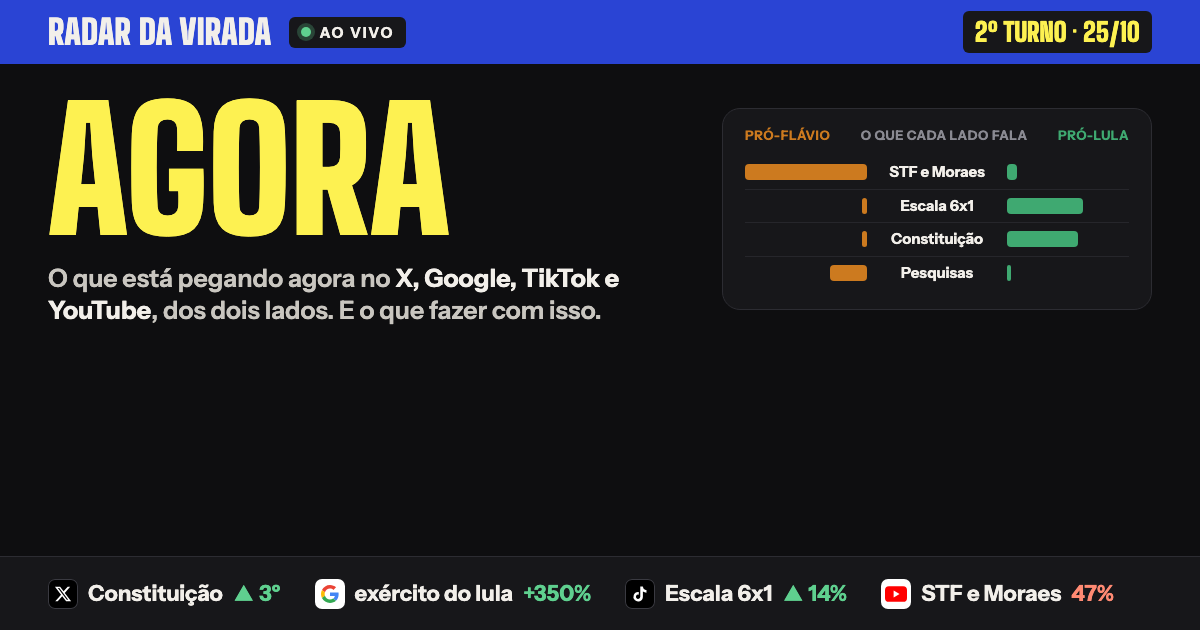
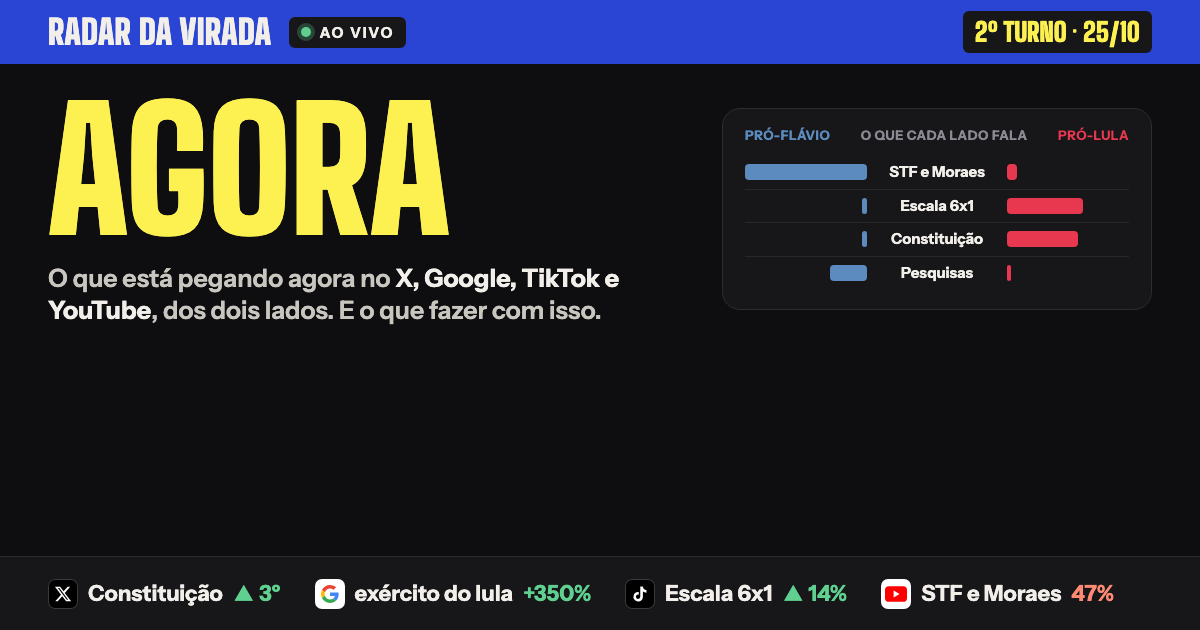
Espelho atualizado 2026-10-10T15:43Z

diff --git a/narrativas.html b/narrativas.html
@@ -9,7 +9,7 @@
 <meta property="og:type" content="website">
 <meta property="og:title" content="Agora · Radar da Virada">
 <meta property="og:description" content="O que está pegando agora no X, Google, TikTok e YouTube, dos dois lados, e o que fazer com isso. Ao vivo até o 2º turno.">
-<meta property="og:image" content="https://radardavirada.pages.dev/og-monitor.png?v=4"><meta property="og:image:alt" content="Painel com o título Agora, barras do que cada lado fala e uma fita de cotações com X, Google, TikTok e YouTube">
+<meta property="og:image" content="https://radardavirada.pages.dev/og-monitor.png?v=5"><meta property="og:image:alt" content="Painel com o título Agora, barras do que cada lado fala e uma fita de cotações com X, Google, TikTok e YouTube">
 <meta property="og:image:width" content="1200"><meta property="og:image:height" content="630">
 <meta property="og:url" content="https://radardavirada.pages.dev/narrativas">
 <meta name="twitter:card" content="summary_large_image">
@@ -24,9 +24,10 @@
 :root {
   --azul: #1800D8; --azul-esc: #10009C; --amarelo: #FFF14A; --tinta: #17171A; --tx-2: #5C5C64; --tx-3: #8A8A92;
   --fundo: #F5F4F1; --card: #FFFFFF; --card-2: #F3F2EE; --linha: #E7E5E0; --linha-2: #D3D0C9;
-  --nossa: #2E8F5B; --nossa-esc: #1F6B43; --nossa-cl: #E6F2EA; --deles: #B8660F; --deles-esc: #8A4A08; --deles-cl: #FBEFE2;
+  /* lados (10/10/2026): Lula em vermelho e Flávio em azul acinzentado, as cores das campanhas, longe do azul forte da marca */
+  --nossa: #C8102E; --nossa-esc: #9A0C23; --nossa-cl: #FBE8EB; --deles: #3B6E9E; --deles-esc: #2A5079; --deles-cl: #E6EEF6;
   --disputa: #5C5C64; --disputa-cl: #ECEBE7; --alerta: #C1121F; --alerta-cl: #FDE8E8; --coral: #FF8C78;
-  --verde: var(--nossa); --verde-esc: var(--nossa-esc); --verde-cl: var(--nossa-cl);
+  --verde: #2E8F5B; --verde-esc: #1F6B43; --verde-cl: #E6F2EA;  /* verde da seção de vídeos e do WhatsApp, separado da cor de lado */
   --f-display: "Big Shoulders Display", Impact, sans-serif; --f-corpo: "Instrument Sans", system-ui, sans-serif;
   --f-mono: "Geist Mono", ui-monospace, SFMono-Regular, Menlo, monospace;
 }
@@ -284,7 +285,7 @@ section[id], #videos { scroll-margin-top: 92px; }  /* altura do topo fixo */
 .lin span { white-space: nowrap; overflow: hidden; text-overflow: ellipsis; font-weight: 600; }
 .lin b { font-variant-numeric: tabular-nums; font-weight: 700; }
 .lin em { font-style: normal; font: 800 12px/1 var(--f-corpo); font-variant-numeric: tabular-nums; min-width: 46px; text-align: right; }
-.lin em.up { color: var(--nossa); } .lin em.dn { color: var(--alerta); } .lin em.nv { color: var(--deles); } .lin em.eq { color: var(--tx-3); }
+.lin em.up { color: var(--verde-esc); } .lin em.dn { color: #8A8A92; } .lin em.nv { color: #8A5A00; } .lin em.eq { color: var(--tx-3); }  /* sobe/cai/novo sem cor de lado */
 .duas { display: grid; grid-template-columns: 1fr 1fr; gap: 12px; }
 .duas h5 { margin: 0 0 2px; font: 800 10px/1 var(--f-corpo); text-transform: uppercase; letter-spacing: .07em; }
 .duas .lin { grid-template-columns: minmax(0, 1fr) auto; font-size: 13px; }
@@ -346,10 +347,8 @@ a.dp-t:hover { text-decoration: underline; }
 .tom-ver { display: inline-block; margin-top: 6px; padding: 4px 9px; border-radius: 6px; font: 800 12px/1.2 var(--f-corpo); }
 .tom-ver.ruim { background: #FF4D4D; color: #FFF; } .tom-ver.bom { background: #2EE07A; color: #0B2A17; } .tom-ver.eq { background: rgb(255 255 255 / .18); color: #FFF; }
 .tom-ver + .tom-leg { margin-top: 4px; }
-/* vermelho em quem leva mais pancada; o outro lado fica neutro (Lula na frente mantém o verde) */
-.visor-escuro .tom.perde-l .tom-num b:first-child::before, .visor-escuro .tom.perde-l .tom-barra i:first-child,
-.visor-escuro .tom.perde-f .tom-num b:last-child::after, .visor-escuro .tom.perde-f .tom-barra i:last-child { background: #FF4D4D !important; }
-.visor-escuro .tom.perde-l .tom-num b:last-child::after, .visor-escuro .tom.perde-l .tom-barra i:last-child { background: #CFCBE8 !important; }
+/* a barra do medidor usa a cor de cada lado; quem leva pancada aparece no selo do veredito (antes era um vermelho de alerta,
+   que com Lula em vermelho virou ambíguo) */
 .pn-lex { margin-top: 10px; padding: 10px 14px; }
 .pn-lex h4 { margin-bottom: 6px; }
 .lx-linha { display: flex; gap: 18px; align-items: flex-start; }
@@ -534,7 +533,7 @@ details.cuidado[open] .cuid-n { background: var(--alerta); color: #FFF; }
 .args p { margin: 2px 0 0; font-size: 16px; font-weight: 600; line-height: 1.4; }
 .args a { font-size: 13px; color: var(--tx-3); text-decoration: none; } .args a:hover { text-decoration: underline; color: var(--tinta); }
 .bt { display: inline-flex; align-items: center; justify-content: center; gap: 6px; font: 700 15px/1 var(--f-corpo); text-decoration: none; padding: 13px 18px; border-radius: 999px; border: 0; cursor: pointer; }
-.bt.zap { background: var(--nossa); color: #FFF; } .bt.s { background: var(--card); box-shadow: inset 0 0 0 1.5px var(--linha-2); }
+.bt.zap { background: var(--verde); color: #FFF; }  /* botão de WhatsApp fica verde, não na cor de lado */ .bt.s { background: var(--card); box-shadow: inset 0 0 0 1.5px var(--linha-2); }
 .bts { display: flex; gap: 8px; flex-wrap: wrap; }
 
 .metodo { font-size: 13px; color: var(--tx-3); margin: 26px 0 0; line-height: 1.55; max-width: 860px; }
@@ -652,7 +651,7 @@ details.cuidado[open] .cuid-n { background: var(--alerta); color: #FFF; }
 .eco-mapa .t-fr2 { font: 700 14px var(--f-corpo); fill: var(--azul); }
 .eco-mapa .no { cursor: pointer; outline: none; }
 .eco-mapa .no .anel { fill: var(--linha); transition: r .15s; }
-.eco-mapa .no.on .anel { fill: var(--nossa); } .eco-mapa .no.morno .anel { fill: #9CCFB1; }
+.eco-mapa .no.on .anel { fill: var(--nossa); } .eco-mapa .no.morno .anel { fill: #EFA3AE; }
 .eco-mapa .no.parado image { filter: grayscale(1); opacity: .65; }
 .eco-mapa .no:hover .anel, .eco-mapa .no:focus .anel, .eco-mapa .no.sel .anel { fill: var(--amarelo); }
 .eco-mapa .no.sel .anel { stroke: var(--tinta); stroke-width: 2; }
@@ -783,7 +782,7 @@ footer { margin-top: 36px; }
   <p class="nota-met" id="como"><b>Limites.</b> Mede atenção em perfis públicos, lidos sem login; intenção de voto é das pesquisas registradas. Fontes: trends24.in (X), Google Trends, Google Notícias, YouTube, TikTok e Kwai.</p>
   <section id="rede-sec">
     <div class="secao-h"><h2>Conecte-se com a mídia independente progressista</h2><div class="leg" id="leg-rede"></div></div>
-    <div class="eco-leg"><span><i style="background:var(--nossa)"></i>postou nas últimas 24 h</span><span><i style="background:#9CCFB1"></i>nas últimas 72 h</span><span><i style="background:var(--linha)"></i>sem vídeo novo</span></div>
+    <div class="eco-leg"><span><i style="background:var(--nossa)"></i>postou nas últimas 24 h</span><span><i style="background:#EFA3AE"></i>nas últimas 72 h</span><span><i style="background:var(--linha)"></i>sem vídeo novo</span></div>
     <div class="eco-mapa" id="eco"></div>
     <details class="eco-lista"><summary>Ver todos os canais em lista</summary><div id="eco-lista"></div></details>
     <div class="eco-info" id="eco-info" hidden></div>

diff --git a/index.html b/index.html
@@ -9,7 +9,7 @@
 <meta property="og:type" content="website">
 <meta property="og:title" content="Agora · Radar da Virada">
 <meta property="og:description" content="O que está pegando agora no X, Google, TikTok e YouTube, dos dois lados, e o que fazer com isso. Ao vivo até o 2º turno.">
-<meta property="og:image" content="https://radardavirada.pages.dev/og-monitor.png?v=4"><meta property="og:image:alt" content="Painel com o título Agora, barras do que cada lado fala e uma fita de cotações com X, Google, TikTok e YouTube">
+<meta property="og:image" content="https://radardavirada.pages.dev/og-monitor.png?v=5"><meta property="og:image:alt" content="Painel com o título Agora, barras do que cada lado fala e uma fita de cotações com X, Google, TikTok e YouTube">
 <meta property="og:image:width" content="1200"><meta property="og:image:height" content="630">
 <meta property="og:url" content="https://radardavirada.pages.dev/">
 <meta name="twitter:card" content="summary_large_image">
@@ -24,9 +24,10 @@
 :root {
   --azul: #1800D8; --azul-esc: #10009C; --amarelo: #FFF14A; --tinta: #17171A; --tx-2: #5C5C64; --tx-3: #8A8A92;
   --fundo: #F5F4F1; --card: #FFFFFF; --card-2: #F3F2EE; --linha: #E7E5E0; --linha-2: #D3D0C9;
-  --nossa: #2E8F5B; --nossa-esc: #1F6B43; --nossa-cl: #E6F2EA; --deles: #B8660F; --deles-esc: #8A4A08; --deles-cl: #FBEFE2;
+  /* lados (10/10/2026): Lula em vermelho e Flávio em azul acinzentado, as cores das campanhas, longe do azul forte da marca */
+  --nossa: #C8102E; --nossa-esc: #9A0C23; --nossa-cl: #FBE8EB; --deles: #3B6E9E; --deles-esc: #2A5079; --deles-cl: #E6EEF6;
   --disputa: #5C5C64; --disputa-cl: #ECEBE7; --alerta: #C1121F; --alerta-cl: #FDE8E8; --coral: #FF8C78;
-  --verde: var(--nossa); --verde-esc: var(--nossa-esc); --verde-cl: var(--nossa-cl);
+  --verde: #2E8F5B; --verde-esc: #1F6B43; --verde-cl: #E6F2EA;  /* verde da seção de vídeos e do WhatsApp, separado da cor de lado */
   --f-display: "Big Shoulders Display", Impact, sans-serif; --f-corpo: "Instrument Sans", system-ui, sans-serif;
   --f-mono: "Geist Mono", ui-monospace, SFMono-Regular, Menlo, monospace;
 }
@@ -284,7 +285,7 @@ section[id], #videos { scroll-margin-top: 92px; }  /* altura do topo fixo */
 .lin span { white-space: nowrap; overflow: hidden; text-overflow: ellipsis; font-weight: 600; }
 .lin b { font-variant-numeric: tabular-nums; font-weight: 700; }
 .lin em { font-style: normal; font: 800 12px/1 var(--f-corpo); font-variant-numeric: tabular-nums; min-width: 46px; text-align: right; }
-.lin em.up { color: var(--nossa); } .lin em.dn { color: var(--alerta); } .lin em.nv { color: var(--deles); } .lin em.eq { color: var(--tx-3); }
+.lin em.up { color: var(--verde-esc); } .lin em.dn { color: #8A8A92; } .lin em.nv { color: #8A5A00; } .lin em.eq { color: var(--tx-3); }  /* sobe/cai/novo sem cor de lado */
 .duas { display: grid; grid-template-columns: 1fr 1fr; gap: 12px; }
 .duas h5 { margin: 0 0 2px; font: 800 10px/1 var(--f-corpo); text-transform: uppercase; letter-spacing: .07em; }
 .duas .lin { grid-template-columns: minmax(0, 1fr) auto; font-size: 13px; }
@@ -346,10 +347,8 @@ a.dp-t:hover { text-decoration: underline; }
 .tom-ver { display: inline-block; margin-top: 6px; padding: 4px 9px; border-radius: 6px; font: 800 12px/1.2 var(--f-corpo); }
 .tom-ver.ruim { background: #FF4D4D; color: #FFF; } .tom-ver.bom { background: #2EE07A; color: #0B2A17; } .tom-ver.eq { background: rgb(255 255 255 / .18); color: #FFF; }
 .tom-ver + .tom-leg { margin-top: 4px; }
-/* vermelho em quem leva mais pancada; o outro lado fica neutro (Lula na frente mantém o verde) */
-.visor-escuro .tom.perde-l .tom-num b:first-child::before, .visor-escuro .tom.perde-l .tom-barra i:first-child,
-.visor-escuro .tom.perde-f .tom-num b:last-child::after, .visor-escuro .tom.perde-f .tom-barra i:last-child { background: #FF4D4D !important; }
-.visor-escuro .tom.perde-l .tom-num b:last-child::after, .visor-escuro .tom.perde-l .tom-barra i:last-child { background: #CFCBE8 !important; }
+/* a barra do medidor usa a cor de cada lado; quem leva pancada aparece no selo do veredito (antes era um vermelho de alerta,
+   que com Lula em vermelho virou ambíguo) */
 .pn-lex { margin-top: 10px; padding: 10px 14px; }
 .pn-lex h4 { margin-bottom: 6px; }
 .lx-linha { display: flex; gap: 18px; align-items: flex-start; }
@@ -534,7 +533,7 @@ details.cuidado[open] .cuid-n { background: var(--alerta); color: #FFF; }
 .args p { margin: 2px 0 0; font-size: 16px; font-weight: 600; line-height: 1.4; }
 .args a { font-size: 13px; color: var(--tx-3); text-decoration: none; } .args a:hover { text-decoration: underline; color: var(--tinta); }
 .bt { display: inline-flex; align-items: center; justify-content: center; gap: 6px; font: 700 15px/1 var(--f-corpo); text-decoration: none; padding: 13px 18px; border-radius: 999px; border: 0; cursor: pointer; }
-.bt.zap { background: var(--nossa); color: #FFF; } .bt.s { background: var(--card); box-shadow: inset 0 0 0 1.5px var(--linha-2); }
+.bt.zap { background: var(--verde); color: #FFF; }  /* botão de WhatsApp fica verde, não na cor de lado */ .bt.s { background: var(--card); box-shadow: inset 0 0 0 1.5px var(--linha-2); }
 .bts { display: flex; gap: 8px; flex-wrap: wrap; }
 
 .metodo { font-size: 13px; color: var(--tx-3); margin: 26px 0 0; line-height: 1.55; max-width: 860px; }
@@ -652,7 +651,7 @@ details.cuidado[open] .cuid-n { background: var(--alerta); color: #FFF; }
 .eco-mapa .t-fr2 { font: 700 14px var(--f-corpo); fill: var(--azul); }
 .eco-mapa .no { cursor: pointer; outline: none; }
 .eco-mapa .no .anel { fill: var(--linha); transition: r .15s; }
-.eco-mapa .no.on .anel { fill: var(--nossa); } .eco-mapa .no.morno .anel { fill: #9CCFB1; }
+.eco-mapa .no.on .anel { fill: var(--nossa); } .eco-mapa .no.morno .anel { fill: #EFA3AE; }
 .eco-mapa .no.parado image { filter: grayscale(1); opacity: .65; }
 .eco-mapa .no:hover .anel, .eco-mapa .no:focus .anel, .eco-mapa .no.sel .anel { fill: var(--amarelo); }
 .eco-mapa .no.sel .anel { stroke: var(--tinta); stroke-width: 2; }
@@ -784,7 +783,7 @@ footer { margin-top: 36px; }
   <p class="nota-met" id="como"><b>Limites.</b> Mede atenção em perfis públicos, lidos sem login; intenção de voto é das pesquisas registradas. Fontes: trends24.in (X), Google Trends, Google Notícias, YouTube, TikTok e Kwai.</p>
   <section id="rede-sec">
     <div class="secao-h"><h2>Conecte-se com a mídia independente progressista</h2><div class="leg" id="leg-rede"></div></div>
-    <div class="eco-leg"><span><i style="background:var(--nossa)"></i>postou nas últimas 24 h</span><span><i style="background:#9CCFB1"></i>nas últimas 72 h</span><span><i style="background:var(--linha)"></i>sem vídeo novo</span></div>
+    <div class="eco-leg"><span><i style="background:var(--nossa)"></i>postou nas últimas 24 h</span><span><i style="background:#EFA3AE"></i>nas últimas 72 h</span><span><i style="background:var(--linha)"></i>sem vídeo novo</span></div>
     <div class="eco-mapa" id="eco"></div>
     <details class="eco-lista"><summary>Ver todos os canais em lista</summary><div id="eco-lista"></div></details>
     <div class="eco-info" id="eco-info" hidden></div>
